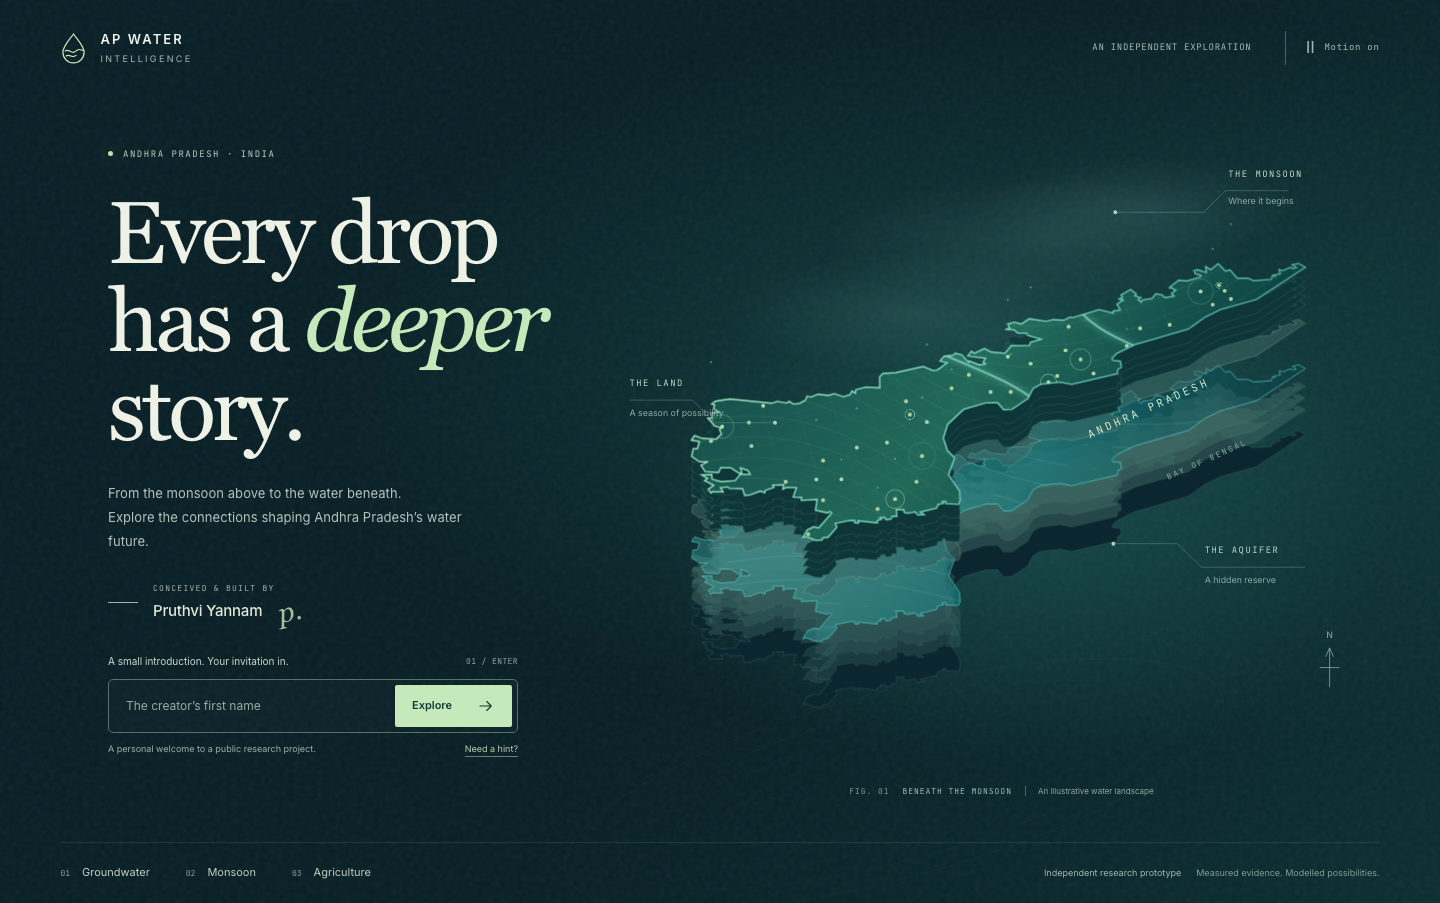
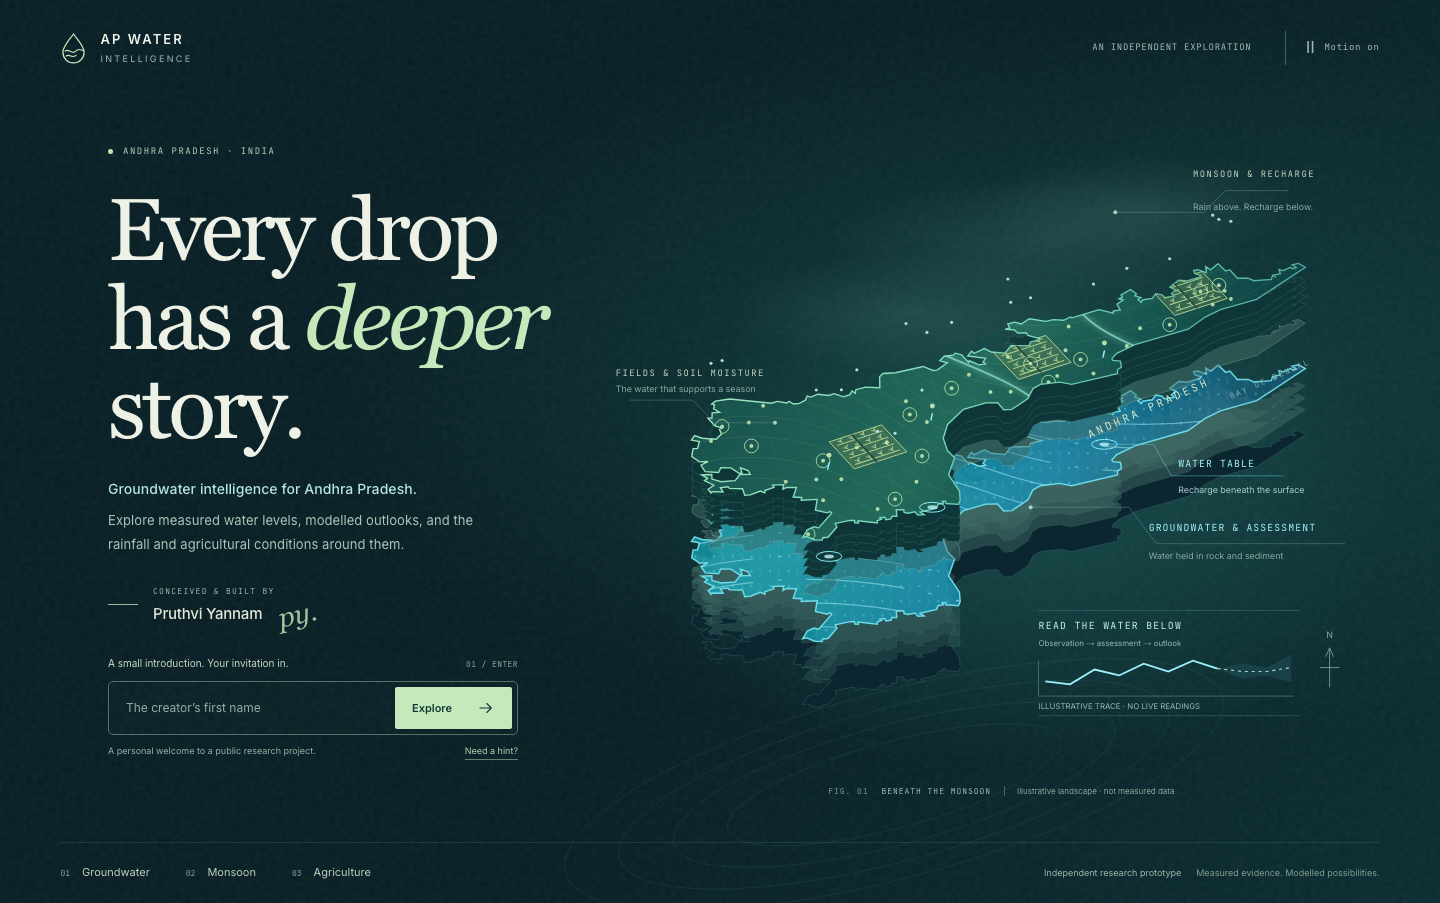
Refine groundwater entrance with recharge, crops, and creator signature

diff --git a/app/components/welcome/WaterLandscape.tsx b/app/components/welcome/WaterLandscape.tsx
@@ -5,19 +5,21 @@ import styles from "./Welcome.module.css";
 /** Animated vector artwork, not a data visualisation. No WebGL, video or network assets. */
 export function WaterLandscape() {
   const phase = (i: number): CSSProperties => ({ "--delay": `${-(i * 0.73)}s` } as CSSProperties);
+  const rechargePoints = [{ x: 235, y: 350 }, { x: 340, y: 300 }, { x: 515, y: 236 }];
   return (
     <svg className={styles.scene} viewBox="0 0 820 700" fill="none" role="img" aria-labelledby="water-landscape-title water-landscape-description">
       <title id="water-landscape-title">Beneath the monsoon</title>
-      <desc id="water-landscape-description">An artistic outline of Andhra Pradesh floats above layers of earth and groundwater, with falling rain and ripples. This scene illustrates the water cycle; it is not measured data.</desc>
+      <desc id="water-landscape-description">An illustrative Andhra Pradesh landscape connects monsoon rain and crop rows with groundwater in rock and sediment. Recharge pulses move down to a cyan water-bearing layer, small measurement points pulse along the water-bearing layer, and an illustrative assessment trace responds. This is not measured data, an actual well map, or a geological cross-section.</desc>
       <defs>
         <linearGradient id="wl-land" x1="160" y1="160" x2="570" y2="450" gradientUnits="userSpaceOnUse"><stop stopColor="#164e4c"/><stop offset=".5" stopColor="#22695a"/><stop offset="1" stopColor="#083b41"/></linearGradient>
         <linearGradient id="wl-edge" x1="130" y1="130" x2="540" y2="460" gradientUnits="userSpaceOnUse"><stop stopColor="#b2e9bc"/><stop offset=".55" stopColor="#79dbbf"/><stop offset="1" stopColor="#459d93"/></linearGradient>
         <linearGradient id="wl-rock" x1="300" y1="300" x2="360" y2="650" gradientUnits="userSpaceOnUse"><stop stopColor="#426c66" stopOpacity=".48"/><stop offset="1" stopColor="#173f49" stopOpacity=".12"/></linearGradient>
-        <linearGradient id="wl-water" x1="200" y1="330" x2="610" y2="500" gradientUnits="userSpaceOnUse"><stop stopColor="#48d3d0" stopOpacity=".28"/><stop offset=".5" stopColor="#0f797f" stopOpacity=".54"/><stop offset="1" stopColor="#063e54" stopOpacity=".2"/></linearGradient>
-        <linearGradient id="wl-rain" x1="0" y1="0" x2="0" y2="1"><stop stopColor="#a3e5d9" stopOpacity="0"/><stop offset="1" stopColor="#a3e5d9" stopOpacity=".65"/></linearGradient>
+        <linearGradient id="wl-water" x1="200" y1="330" x2="610" y2="500" gradientUnits="userSpaceOnUse"><stop stopColor="#12b5cb" stopOpacity=".62"/><stop offset=".5" stopColor="#148dba" stopOpacity=".72"/><stop offset="1" stopColor="#124d76" stopOpacity=".48"/></linearGradient>
+        <linearGradient id="wl-rain" x1="0" y1="0" x2="0" y2="1"><stop stopColor="#8ce7f2" stopOpacity="0"/><stop offset="1" stopColor="#b4f5fa" stopOpacity=".95"/></linearGradient>
         <radialGradient id="wl-glow"><stop stopColor="#39a99d" stopOpacity=".17"/><stop offset="1" stopColor="#39a99d" stopOpacity="0"/></radialGradient>
         <radialGradient id="wl-cloud"><stop stopColor="#86b8b2" stopOpacity=".13"/><stop offset="1" stopColor="#86b8b2" stopOpacity="0"/></radialGradient>
         <pattern id="wl-grid" width="35" height="22" patternUnits="userSpaceOnUse" patternTransform="rotate(-17)"><path d="M35 0H0V22" stroke="#abdcb2" strokeOpacity=".12" strokeWidth=".6"/></pattern>
+        <pattern id="wl-pores" width="19" height="15" patternUnits="userSpaceOnUse"><circle cx="4" cy="5" r="1.2" fill="#a5f2ff" opacity=".3"/><path d="m11 2 3 4-2 5" stroke="#a5f2ff" strokeWidth=".7" opacity=".25"/></pattern>
         <clipPath id="wl-clip"><path d={geometry.path}/></clipPath>
         <filter id="wl-soft"><feGaussianBlur stdDeviation="2.5"/></filter>
       </defs>
@@ -32,9 +34,11 @@ export function WaterLandscape() {
         <path d={geometry.path} transform="translate(0 170)" fill="#0b262f" stroke="#41626b" strokeOpacity=".55" strokeWidth=".8"/>
         {[145,133,121].map(y => <path key={y} d={geometry.path} transform={`translate(0 ${y})`} fill="url(#wl-rock)" stroke="#5f8e8e" strokeOpacity=".23" strokeWidth=".7"/>)}
         <g transform="translate(0 103)">
-          <path d={geometry.path} fill="url(#wl-water)" stroke="#5de0d5" strokeOpacity=".6" strokeWidth="1"/>
-          <g clipPath="url(#wl-clip)" stroke="#8be9d8" strokeWidth=".7">
-            {Array.from({length:12},(_,i)=><path key={i} className={styles.current} style={phase(i)} d={`M60 ${180+i*24}Q230 ${130+i*24} 400 ${190+i*24}T790 ${170+i*24}`} strokeOpacity=".25" strokeDasharray="100 25 4 25"/>)}
+          <path d={geometry.path} fill="url(#wl-water)" stroke="#71e5f3" strokeOpacity=".9" strokeWidth="1.5"/>
+          <path d={geometry.path} fill="url(#wl-pores)"/>
+          <path className={styles.aquiferResponse} d={geometry.path} fill="#56d9f0" stroke="#9bf2ff" strokeWidth="2"/>
+          <g clipPath="url(#wl-clip)" stroke="#b4f7ff" strokeWidth="1.2">
+            {Array.from({length:12},(_,i)=><path key={i} className={styles.current} style={phase(i)} d={`M60 ${180+i*24}Q230 ${130+i*24} 400 ${190+i*24}T790 ${170+i*24}`} strokeOpacity=".48" strokeDasharray="100 25 4 25"/>)}
           </g>
         </g>
         <path d={geometry.path} transform="translate(0 57)" fill="url(#wl-rock)" stroke="#90ada0" strokeOpacity=".45" strokeWidth=".8"/>
@@ -43,14 +47,36 @@ export function WaterLandscape() {
         <g clipPath="url(#wl-clip)">
           <path d={geometry.path} fill="url(#wl-grid)"/>
           {Array.from({length:14},(_,i)=><path key={i} d={`M40 ${150+i*21}Q180 ${80+i*21} 320 ${180+i*21}T700 ${120+i*21}`} stroke="#a3d4ab" strokeOpacity=".15" strokeWidth=".7"/>)}
+          {/* Small cultivated parcels keep agriculture visibly tied to the land. */}
+          {[{x:270,y:342},{x:437,y:251},{x:596,y:186}].map(({x,y},i)=><g key={i} transform={`translate(${x} ${y}) rotate(-18) skewX(25)`}>
+            <rect x="-24" y="-16" width="56" height="34" fill="#6b8956" fillOpacity=".35" stroke="#c4d694" strokeWidth=".8"/>
+            {[-10,-2,6,14].map(row=><g key={row} stroke="#c6df98" strokeWidth="1" strokeOpacity=".85">
+              <path d={`M-20 ${row}h48`}/>
+              {[-14,-2,10,22].map(col=><path key={col} d={`M${col} ${row}v-5m0 3-3-2m3 1 3-3`} strokeWidth=".8"/>)}
+            </g>)}
+            <path d="M0-16v34" stroke="#254c3e" strokeWidth="2"/>
+          </g>)}
           <path d="M280 190C290 245 425 260 457 308S490 339 524 351M480 155C465 205 520 228 557 244S589 275 610 272" stroke="#99e9d8" strokeWidth="2" strokeOpacity=".65"/>
           <path d="M280 190C290 245 425 260 457 308S490 339 524 351M480 155C465 205 520 228 557 244S589 275 610 272" stroke="#9bffdb" strokeWidth="7" strokeOpacity=".16" filter="url(#wl-soft)"/>
           {geometry.nodes.map(([x,y],i)=><g key={i}><circle cx={x} cy={y} r="2" fill="#d5f4ba" opacity=".8"/>{i%3===0&&<circle className={styles.signal} style={phase(i)} cx={x} cy={y} r="7" stroke="#c4efaf" strokeWidth=".8"/>}</g>)}
         </g>
       </g>
 
+      {/* Light and small points suggest recharge without adding physical structures. */}
+      <g>
+        {rechargePoints.map(({x,y},i)=><g key={i} transform={`translate(${x} ${y})`}>
+          <circle r="2.5" fill="#d5f4ba" opacity=".85"/>
+          <ellipse cy="103" rx="5" ry="2" fill="#c0f6fc" opacity=".8"/>
+          <ellipse className={styles.measurementResponse} cy="103" rx="13" ry="5" stroke="#8beefd" strokeWidth="1"/>
+          <path className={styles.rechargePulse} d="M0 8c-8 29 8 58 0 90" pathLength="100" stroke="#8fefff" strokeWidth="1.5" strokeLinecap="round" strokeDasharray="7 100"/>
+        </g>)}
+        <path d="M520 339h45l18 32h114" stroke="#76deef" strokeOpacity=".6" strokeWidth=".7"/>
+        <text x="590" y="362" className={styles.waterTableLabel}>WATER TABLE</text>
+        <text x="590" y="388" className={styles.waterTableSub}>Recharge beneath the surface</text>
+      </g>
+
       <g className={styles.rain}>
-        {geometry.nodes.filter((_,i)=>i%2===0).map(([x,y],i)=><g key={i} style={phase(i)} className={styles.rainDrop}><path d={`M${x} ${y-100}v34`} stroke="url(#wl-rain)" strokeWidth=".9"/><circle cx={x} cy={y-65} r="1" fill="#c9f5e3" opacity=".65"/></g>)}
+        {geometry.nodes.filter((_,i)=>i%2===0).map(([x,y],i)=><g key={i} className={styles.rainDrop}><path d={`M${x} ${y-110-(i%3)*12}v42`} stroke="url(#wl-rain)" strokeWidth="1.6"/><circle cx={x} cy={y-67-(i%3)*12} r="1.6" fill="#cbf8ff" opacity=".85"/></g>)}
       </g>
       <g className={styles.clouds}>
         <ellipse cx="450" cy="132" rx="220" ry="64" fill="url(#wl-cloud)"/>
@@ -60,13 +86,24 @@ export function WaterLandscape() {
 
       <g className={styles.sceneLabels}>
         <path d="M526 103h90l22-22h64"/><circle cx="526" cy="103" r="2"/>
-        <text x="641" y="67">THE MONSOON</text><text x="641" y="95" className={styles.labelSub}>Where it begins</text>
+        <text x="605" y="67">MONSOON &amp; RECHARGE</text><text x="605" y="101" className={styles.labelSub}>Rain above. Recharge below.</text>
         <path d="M180 317h-61l-23-23H32"/><circle cx="180" cy="317" r="2"/>
-        <text x="32" y="280">THE LAND</text><text x="32" y="310" className={styles.labelSub}>A season of possibility</text>
-        <path d="M524 440h65l25 24h105"/><circle cx="524" cy="440" r="2"/>
-        <text x="617" y="450">THE AQUIFER</text><text x="617" y="480" className={styles.labelSub}>A hidden reserve</text>
+        <text x="18" y="270">FIELDS &amp; SOIL MOISTURE</text><text x="18" y="286" className={styles.labelSub}>The water that supports a season</text>
+        <path d="M440 403h100l28 37h192"/><circle cx="440" cy="403" r="2"/>
+        <text x="560" y="427" className={styles.groundwaterLabel}>GROUNDWATER &amp; ASSESSMENT</text><text x="560" y="456" className={styles.labelSub}>Water held in rock and sediment</text>
         <text x="500" y="333" transform="rotate(-24 500 333)" className={styles.stateLabel}>ANDHRA PRADESH</text>
-        <text x="580" y="375" transform="rotate(-24 580 375)" className={styles.seaLabel}>BAY OF BENGAL</text>
+        <text x="644" y="293" transform="rotate(-24 644 293)" className={styles.seaLabel}>BAY OF BENGAL</text>
+      </g>
+      <g transform="translate(448 508)" className={styles.assessment}>
+        <path d="M0 0h266M0 107h266" stroke="#6bafb9" strokeOpacity=".4" strokeWidth=".7"/>
+        <text y="19" className={styles.assessmentTitle}>READ THE WATER BELOW</text>
+        <text y="36" className={styles.assessmentNote}>Observation → assessment → outlook</text>
+        <path d="M0 87h260M0 51v36" stroke="#648c9d" strokeWidth=".6"/>
+        <path d="m7 72 25 3 25-15 25 6 25-12 25 8 25-11 25 8" stroke="#7ce4f4" strokeOpacity=".24" strokeWidth="1.5"/>
+        <path className={styles.assessmentTrace} pathLength="100" d="m7 72 25 3 25-15 25 6 25-12 25 8 25-11 25 8" stroke="#9af1fc" strokeWidth="1.8"/>
+        <path d="m182 59 25-5 25 4 25-13v28l-25-7-25 4-25-11Z" fill="#56bdcf" fillOpacity=".12"/>
+        <path d="m182 59 25 3 25 0 25-4" stroke="#b8d4bd" strokeWidth="1.2" strokeDasharray="3 4"/>
+        <text y="100" className={styles.assessmentNote}>ILLUSTRATIVE TRACE · NO LIVE READINGS</text>
       </g>
       <g transform="translate(744 566)" stroke="#83aaa8" strokeWidth=".8"><path d="M0 20V-20l-4 9m4-9 4 9M-10 0h20"/><text y="-30" textAnchor="middle" fill="#83aaa8" stroke="none" fontSize="9">N</text></g>
     </svg>

diff --git a/app/components/welcome/Welcome.module.css b/app/components/welcome/Welcome.module.css
@@ -39,6 +39,7 @@
 .story h1 { margin: 0; color: #eef1e6; font-family: Georgia, "Times New Roman", serif; font-size: clamp(66px, 6.1vw, 102px); font-weight: 400; line-height: 1.01; letter-spacing: -.045em; text-wrap: nowrap; }
 .story h1 em { color: var(--welcome-mint); font-weight: 400; }
 .description { max-width: 390px; margin: 27px 0 0; color: #afc1ba; font-size: 13px; line-height: 1.85; letter-spacing: .005em; }
+.description strong { display: block; margin-bottom: 7px; color: #b6e5e5; font-weight: 500; font-size: 14px; line-height: 1.6; }
 .creator { display: flex; align-items: center; gap: 15px; margin: 29px 0 31px; }
 .creatorRule { width: 30px; height: 1px; background: #9cbaa1; }
 .creatorLabel { display: block; font-family: var(--font-mono); font-size: 8px; letter-spacing: .16em; color: #9fb2aa; }
@@ -75,6 +76,14 @@
 .labelSub { font-family: var(--font-sans); font-size: 9px; letter-spacing: 0; fill: #8baaa2; }
 .stateLabel { font-size: 11px; letter-spacing: 3px; fill: #d2e7cc; }
 .seaLabel { font-size: 8px; letter-spacing: 2px; fill: #80aaa6; }
+.waterTableLabel, .groundwaterLabel { font: 10px var(--font-mono); letter-spacing: 1.1px; fill: #a4eff8; }
+.waterTableSub { font: 9px var(--font-sans); fill: #a8cdd1; }
+.assessmentTitle { font: 10px var(--font-mono); letter-spacing: 1.3px; fill: #c1edf0; }
+.assessmentNote { font: 8px var(--font-sans); fill: #99b6bd; }
+.aquiferResponse { opacity: .04; animation: aquiferResponse 10s ease-in-out infinite; }
+.rechargePulse { animation: rechargePulse 10s linear infinite; }
+.measurementResponse { transform-box: fill-box; transform-origin: center; animation: measurementResponse 10s ease-out infinite; }
+.assessmentTrace { stroke-dasharray: 100; animation: assessmentTrace 10s ease-in-out infinite; }
 .footer { margin: 0 4.2%; padding: 22px 0 24px; border-top: 1px solid #82ae9929; display: flex; justify-content: space-between; gap: 25px; align-items: center; }
 .disciplines { display: flex; gap: 36px; }
 .disciplines > span { display: flex; gap: 12px; align-items: baseline; color: #88a49a; font: 8px var(--font-mono); }
@@ -82,15 +91,20 @@
 .footer > p { display: flex; gap: 15px; margin: 0; color: #a4b8ad; font-size: 9px; }
 .footer > p > span { color: #829e91; }
 .srOnly { position: absolute; width: 1px; height: 1px; overflow: hidden; clip-path: inset(50%); white-space: nowrap; }
-.rainDrop { animation: rainfall 3.7s linear infinite; animation-delay: var(--delay); }
-.current { animation: current 13s linear infinite; animation-delay: var(--delay); }
+.rainDrop { animation: rainfall 10s linear infinite; }
+.current { animation: current 8s linear infinite; animation-delay: var(--delay); }
 .signal { transform-box: fill-box; transform-origin: center; animation: signal 5s ease-out infinite; animation-delay: var(--delay); }
 .clouds { animation: cloud 22s ease-in-out infinite alternate; }
 .ripple { transform-origin: 430px 555px; animation: ripple 9s ease-in-out infinite; animation-delay: var(--delay); }
 .entryRipple { position: fixed; z-index: 10; left: 50%; top: 50%; width: 30px; height: 30px; border-radius: 50%; background: #c6e9bc; opacity: 0; pointer-events: none; transform: translate(-50%, -50%) scale(0); }
 .welcome[data-phase="entering"] .entryRipple { animation: enter .65s ease-in forwards; }
 .welcome[data-motion="paused"] *, .welcome[data-motion="paused"] *::before, .welcome[data-motion="paused"] *::after { animation-play-state: paused !important; }
-@keyframes rainfall { 0% { transform: translateY(-34px); opacity: 0; } 20% { opacity: .75; } 80% { opacity: .6; } 100% { transform: translateY(65px); opacity: 0; } }
+/* One legible cycle: rain, infiltration, groundwater response, then assessment. */
+@keyframes rainfall { 0% { transform: translateY(-20px); opacity: 0; } 5% { opacity: 1; } 27% { opacity: .85; } 33%,100% { transform: translateY(65px); opacity: 0; } }
+@keyframes rechargePulse { 0%,28% { stroke-dashoffset: 14; opacity: 0; } 33% { stroke-dashoffset: 0; opacity: 1; } 59% { stroke-dashoffset: -100; opacity: 1; } 64%,100% { stroke-dashoffset: -100; opacity: 0; } }
+@keyframes aquiferResponse { 0%,48%,100% { opacity: .04; } 65%,77% { opacity: .26; } }
+@keyframes measurementResponse { 0%,54% { transform: scale(.5); opacity: 0; } 60% { transform: scale(.65); opacity: 1; } 84%,100% { transform: scale(2); opacity: 0; } }
+@keyframes assessmentTrace { 0%,60% { stroke-dashoffset: 100; opacity: .25; } 87%,97% { stroke-dashoffset: 0; opacity: 1; } 100% { stroke-dashoffset: 0; opacity: .25; } }
 @keyframes current { to { stroke-dashoffset: -154; } }
 @keyframes signal { 0% { transform: scale(.35); opacity: .8; } 70%,100% { transform: scale(2.1); opacity: 0; } }
 @keyframes cloud { to { transform: translate(32px, -9px); } }
@@ -138,4 +152,4 @@
   .footer > p { text-align: left; gap: 5px; font-size: 9px; }
 }
 @media (max-width: 390px) { .story h1 { font-size: 54px; } .content { padding-left: 6%; padding-right: 6%; } .formHeading { gap: 6px; } .formHeading label { font-size: 9px; } .inputRow button { gap: 10px; padding: 10px 12px; } .figureNote { flex-basis: 100%; padding: 0; border: 0; } }
-@media (prefers-reduced-motion: reduce) { .welcome *, .welcome *::before, .welcome *::after { animation: none !important; transition: none !important; } .rainDrop { opacity: .35; } .signal { opacity: .4; } }
+@media (prefers-reduced-motion: reduce) { .welcome *, .welcome *::before, .welcome *::after { animation: none !important; transition: none !important; } .rainDrop { opacity: .65; } .signal, .measurementResponse { opacity: .4; } .aquiferResponse { opacity: .08; } .rechargePulse { stroke-dasharray: 3 7; opacity: .6; } .assessmentTrace { stroke-dashoffset: 0; } }

diff --git a/app/components/welcome/WelcomeGate.tsx b/app/components/welcome/WelcomeGate.tsx
@@ -118,10 +118,10 @@ export function WelcomeGate({ children }: { children: React.ReactNode }) {
         <section className={styles.story} aria-labelledby="welcome-title">
           <p className={styles.eyebrow}><span /> ANDHRA PRADESH · INDIA</p>
           <h1 id="welcome-title" tabIndex={-1}>Every drop<br />has a <em>deeper</em><br />story.</h1>
-          <p className={styles.description}>From the monsoon above to the water beneath.<br className={styles.desktopBreak} /> Explore the connections shaping Andhra Pradesh&rsquo;s water future.</p>
+          <p className={styles.description}><strong>Groundwater intelligence for Andhra Pradesh.</strong>Explore measured water levels, modelled outlooks, and the rainfall and agricultural conditions around them.</p>
           <div className={styles.creator}>
             <span className={styles.creatorRule} />
-            <div><span className={styles.creatorLabel}>CONCEIVED &amp; BUILT BY</span><span className={styles.creatorName}>{CREATOR_NAME}<span className={styles.creatorSignature} aria-hidden="true">p.</span></span></div>
+            <div><span className={styles.creatorLabel}>CONCEIVED &amp; BUILT BY</span><span className={styles.creatorName}>{CREATOR_NAME}<span className={styles.creatorSignature} aria-hidden="true">py.</span></span></div>
           </div>
           <form className={styles.form} onSubmit={enter} aria-label="Enter the observatory">
             <div className={styles.formHeading}><label htmlFor="welcome-key">A small introduction. Your invitation in.</label><span>01 / ENTER</span></div>
@@ -139,7 +139,7 @@ export function WelcomeGate({ children }: { children: React.ReactNode }) {
 
         <figure className={styles.landscape}>
           <WaterLandscape />
-          <figcaption><span className={styles.figureIndex}>FIG. 01</span> BENEATH THE MONSOON <span className={styles.figureNote}>An illustrative water landscape</span></figcaption>
+          <figcaption><span className={styles.figureIndex}>FIG. 01</span> BENEATH THE MONSOON <span className={styles.figureNote}>Illustrative landscape · not measured data</span></figcaption>
         </figure>
       </main>
 

diff --git a/app/e2e/welcome.spec.ts b/app/e2e/welcome.spec.ts
@@ -101,7 +101,7 @@ for (const width of [320, 375, 768, 1440]) {
     expect(headingOverflow).toBeLessThanOrEqual(1);
     const input = await page.getByLabel("A small introduction. Your invitation in.").boundingBox();
     expect(input!.width).toBeGreaterThan(140);
-    if (process.env.WELCOME_SCREENSHOTS) await page.screenshot({ path: `test-results/welcome-${width}.png`, fullPage: true });
+    if (process.env.WELCOME_SCREENSHOTS) await page.screenshot({ path: `test-results/welcome-${width}.png`, fullPage: true, animations: "disabled" });
     await enter(page);
   });
 }

diff --git a/app/components/AppShell.tsx b/app/components/AppShell.tsx
@@ -267,7 +267,7 @@ export function AppShell({ children }: { children: React.ReactNode }) {
         <div className="sidebarSpacer" />
 
         <button type="button" className="creatorCredit" onClick={showWelcome} title="About the creator · revisit the introduction">
-          <span className="creatorMonogram" aria-hidden="true">p.</span>
+          <span className="creatorMonogram" aria-hidden="true">py.</span>
           <span className="creatorCreditText"><small>Conceived &amp; built by</small><strong>{CREATOR_NAME}</strong></span>
         </button>
 

diff --git a/docs/reviews/welcome-2026-10/README.md b/docs/reviews/welcome-2026-10/README.md
@@ -7,8 +7,13 @@ production static export at 1440 px and 375 px, before entry.
 - [Phone](phone.png)
 
 The animated vector landscape uses the existing prototype AP silhouette. Its
-rain, layers, river strokes and signal points illustrate a water landscape;
-they do not claim to be observations or an official geological cross-section.
+rain, crop parcels, cyan groundwater layer and small measurement points
+illustrate the relationship between monsoon, agriculture and groundwater. A
+ten-second cycle moves from rainfall through recharge and groundwater response
+to an illustrative assessment trace. These are not observations or an official
+geological cross-section. The teal base and mint typography remain, with cyan
+connecting the groundwater layer to the workspace palette. The creator
+signature reads `py.`. No physical well tubes obscure the landscape.
 
 `PRUTHVI` opens the requested workspace route and is remembered locally. This is
 an introduction on the existing public site, not authentication. The app's
